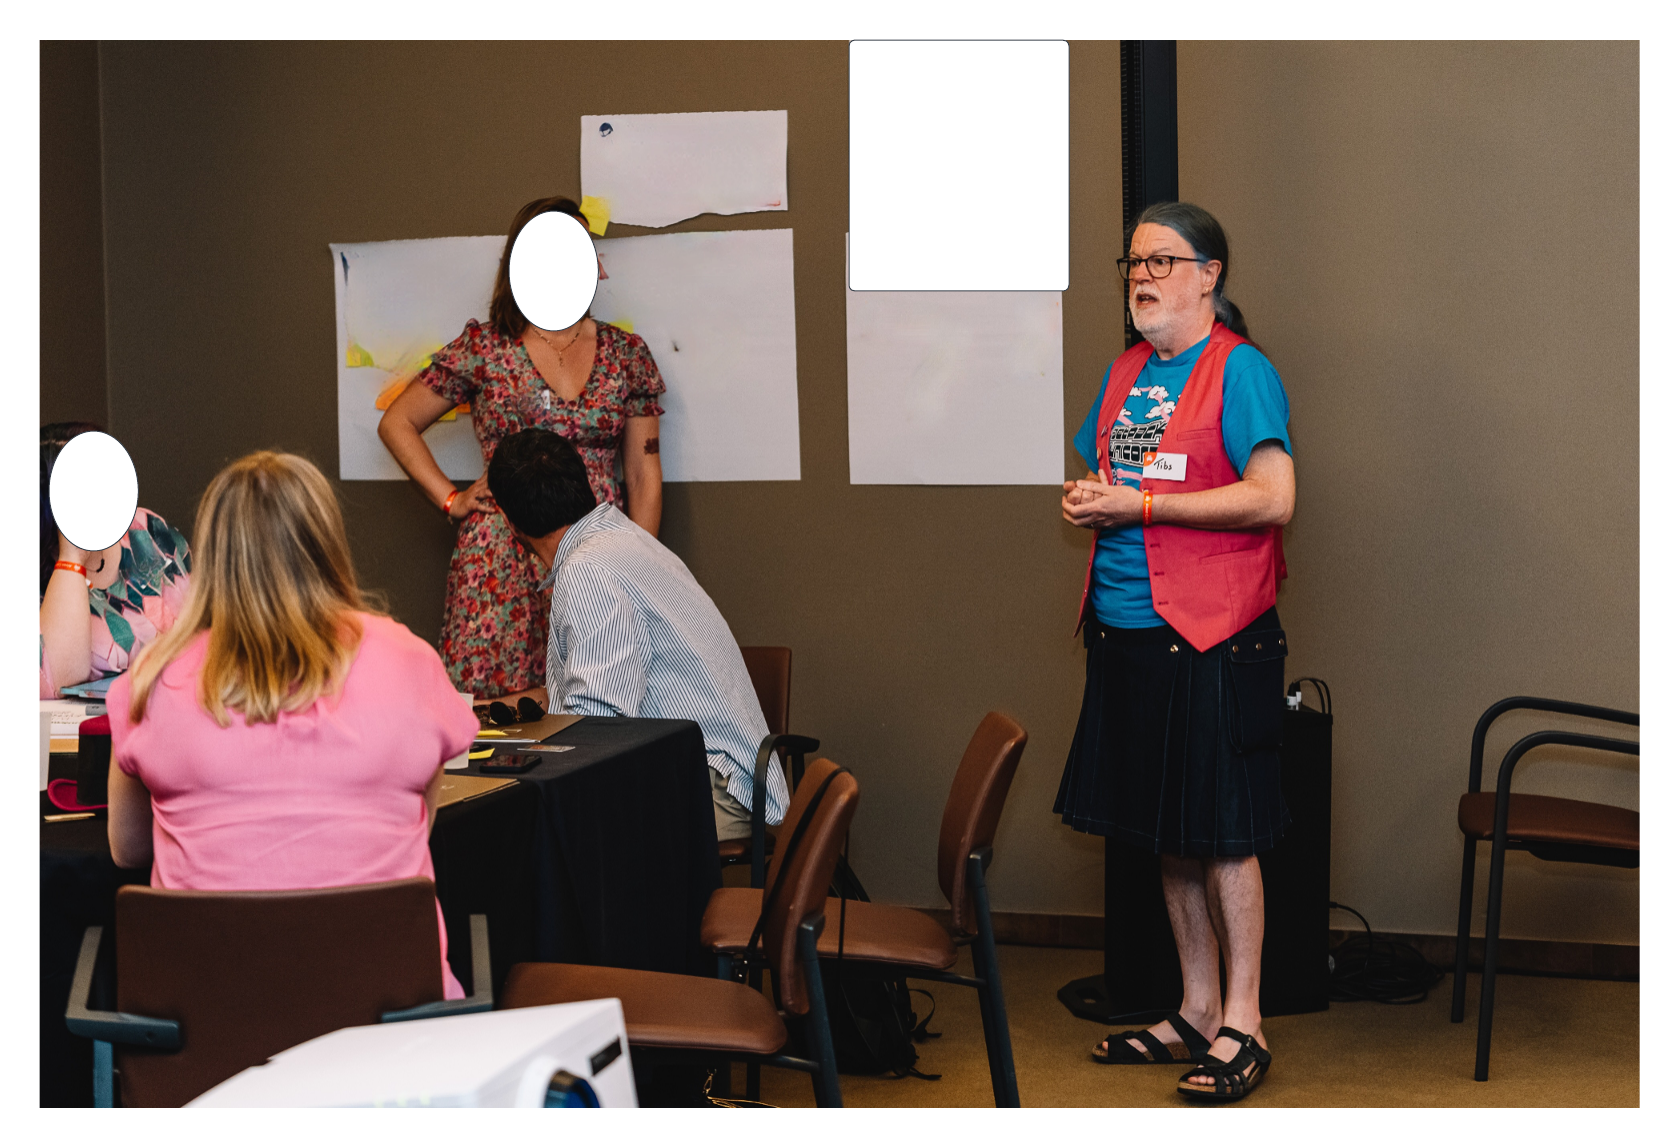
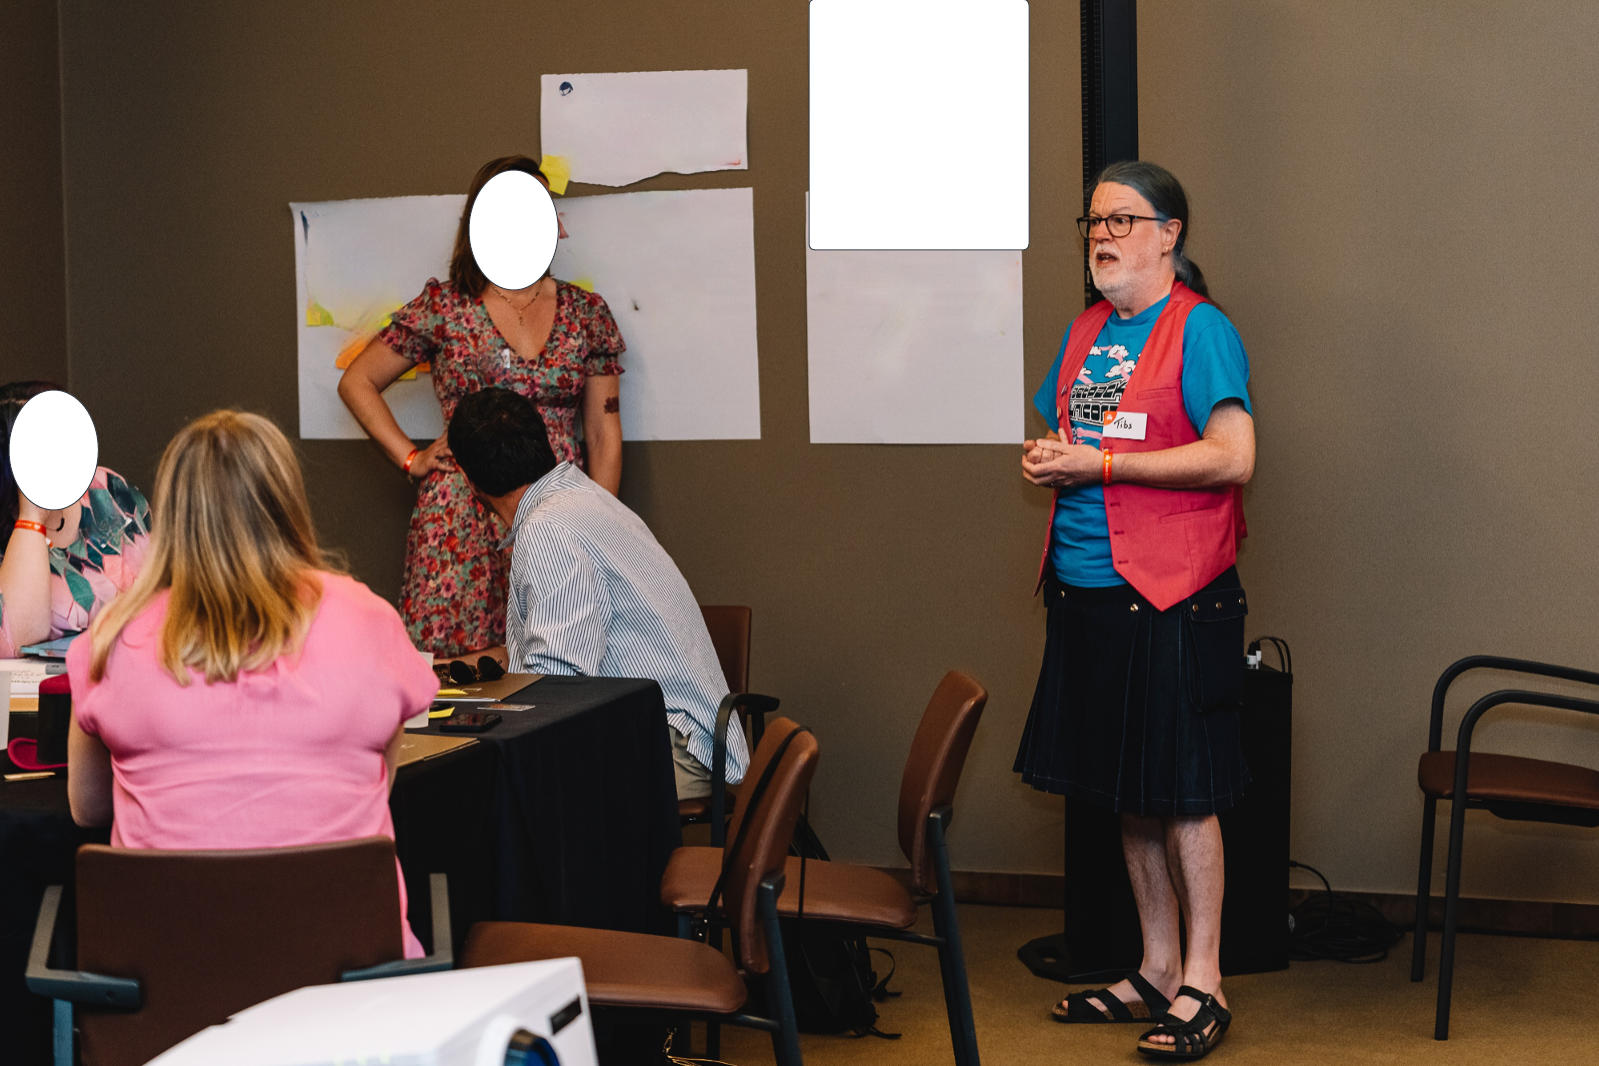
Add a collage of result photos

diff --git a/slides/slides.rst b/slides/slides.rst
@@ -31,6 +31,14 @@ How I used PostgreSQL\ :sup:`®` to find pictures of me at a party
 
       Spacer 0 1
 
+.. -----------------------------------------------------------------------------
+
+.. The image won't fit on this page/slide, so will spill onto the next
+   ...which is actually what I want
+
+.. image:: images/CrabWeekPhotoCollage.jpg
+   :width: 73%
+
 Broad structure
 ---------------
 
